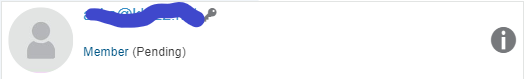
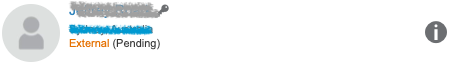
interim; rewriting collaboration

Changed region(s): [[0.0, 0.0, 0.4327, 0.9538], [0.9272, 0.3077, 0.989, 0.6769]]

diff --git a/Collab/README.md b/Collab/README.md
@@ -9,7 +9,9 @@ This page describes:
 
 Dassault advices to follow:
 
-- ["Cross-Company Collaboration or how to invite a user on your platform without consuming your license keys?"](https://r1132100503382-eu1-3dswym.3dexperience.3ds.com/#community:4/post:rHFgrLlQRr6w7xEwrVCYlA) (wiki, updated Feb 2019)
+- ["Cross-Company Collaboration or how to invite a user on your platform without consuming your license keys?"](https://r1132100503382-eu1-3dswym.3dexperience.3ds.com/#community:4/post:rHFgrLlQRr6w7xEwrVCYlA) (wiki, updated Feb 2019; requires authentication by 3DExperience ID)
+
+   >Note: Starting some time between Sep 2022 and Feb 2023, the `Configure Members Options` is no longer visible in a Maker customer's `Members Control System`. This might be a good change, but it also means Dassault should stop referencing that document, since its steps cannot be replicated. /AK
 
 The author also found:
 
@@ -45,23 +47,29 @@ This (cloud collaboration) could be handled in the 3DExperience side of things (
 
 ## Steps
 
+<!-- disabled; maybe there are no preparations any more; the UI has changed. AK8-Feb-23
 ### 0. Preparations (one time)
+-->
 
-- 3DExperience Launcher > `Members` > `Configure Members Options`
+### 0. Open the Members
 
+- 3DExperience Launcher<sup>1</sup> > close existing "app" from the top right `x`; you should see a `Members` tab; click it
+
+   ![](.images/members-tab.png)
+
+  <sup>`1`</sup>: This URL depends on your "platform". The author doesn't know where to fetch it.
+
+<!-- no longer there; disabled
+- `Configure Members Options`
    Enable this:
    
    ![](.images/enable-invitations.png)
-
-<!-- ??
-   - Ask "J" to do the same, on their account
--->
 
 - Enable also:
 
    ![](.images/enable-invitations-from-members.png)
 
-- Click `(select default roles to assign)` <!-- this step is not mentions in the Dassault wiki page -->
+- Click `(select default roles to assign)` <!_-- this step is not mentions in the Dassault wiki page --_>
 
    - `View all` > check `3DEXPERIENCE SOLIDWORKS Professional`
    - clear the `Assign License` checks
@@ -74,9 +82,11 @@ This (cloud collaboration) could be handled in the 3DExperience side of things (
 
    - `Save`
 
+-->
+
 ### 1. Sending the invite
 
-- Go to `Invite & Grant Roles` > `Invite members`.
+- `👤+ Invite members`
 
    ![](.images/invite-members.png)
 
@@ -87,8 +97,6 @@ This (cloud collaboration) could be handled in the 3DExperience side of things (
       >This is explained in a third party [blog post](https://www.cati.com/blog/3dexperience-platform-administration-adding-users-from-outside-your-organization/) (Mar 2021), which says:
       >
       >>If the users are a part of your company and will be using your Roles you will select **Member** under User rights. If the users are bringing their own Roles to the Tenant, you will select **External**.
-
-      <!-- tbd. If we know where Dassault documents these, add a link here. -->
 
 - Proceed to `Roles`
 
@@ -114,10 +122,16 @@ This (cloud collaboration) could be handled in the 3DExperience side of things (
    ![](.images/invite-email.jpg)
 
    The email is sent from `noreply@3dexperience.3ds.com` and "Dassault Systèmes". The title doesn't mention you at all, which is a bit.. disappointing.
+
+>Note: The author is not aware of an invite link (a URL) that could be passed to the recipient via *any* communication channels. This would be a nice feature, since when one invites another maker, there's likely some communication going on, already.
+> 
+> Likewise, there is no support for "allow any other Solidworks for Maker customer to join". Unfortunate. It would be nice, if the engagement can be started also from the collaborator's side.
    
 Pressing the link leads to 3DExperience login page, or registration if the person is new to 3DExperience.
 
 ### 2. Preparations (one time; receiver side)
+
+>**Note!!!** The UI has changed; this section likely DOES NOT APPLY ANY MORE. Confirm, and comment out? `#tbd`
 
 The receiver of the invite also needs to prepare their 3DExperience settings, to allow *their* license to be used in the collaboration:
 
@@ -144,19 +158,6 @@ Notice `3DEXPERIENCE SOLIDWORKS Professional` having `Restrict Usage to this Pla
    
   
 
-
-<!-- disabled
-
-## Feelings...
-
-The author is not sold on the 3DSwym approach.
-
-It might be a suitable solution for enterprise companies, doing a lot of CAD. For hobbyists, the interface is awkward, and Yet Another Tool to know.
-
-Makers are often versed in collaboration tools. We judge these against Discord, and these tools *cannot* live to that standard.
-
-A slimmed down approach, leaving out discussion forums (because we already have them) but focusing on access rights management, would entice the author.
--->
 
 ## Opening a model in a browser
 
